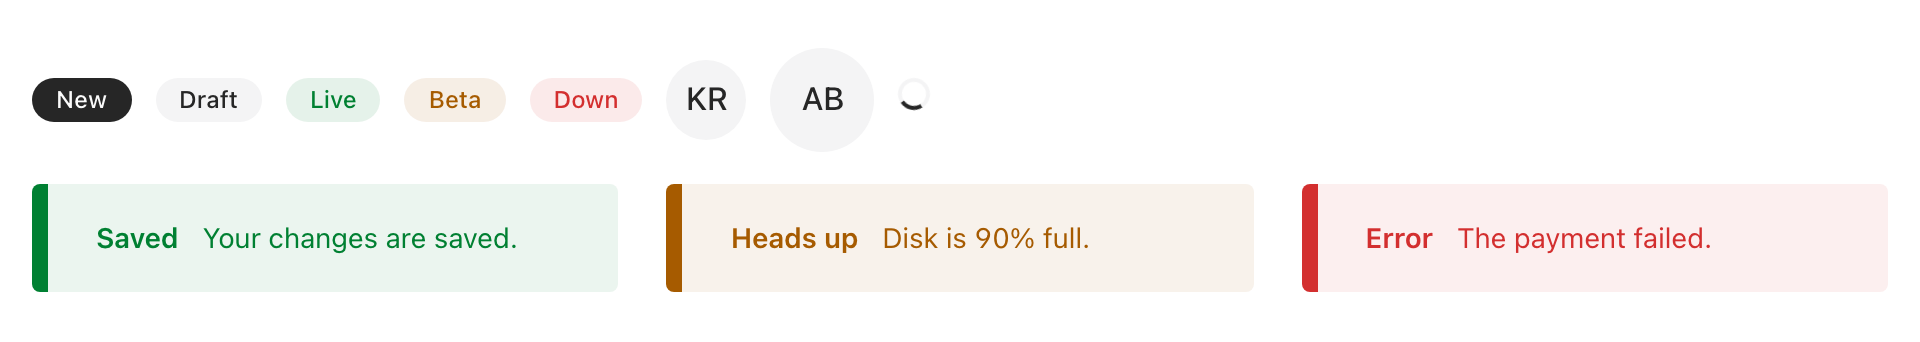
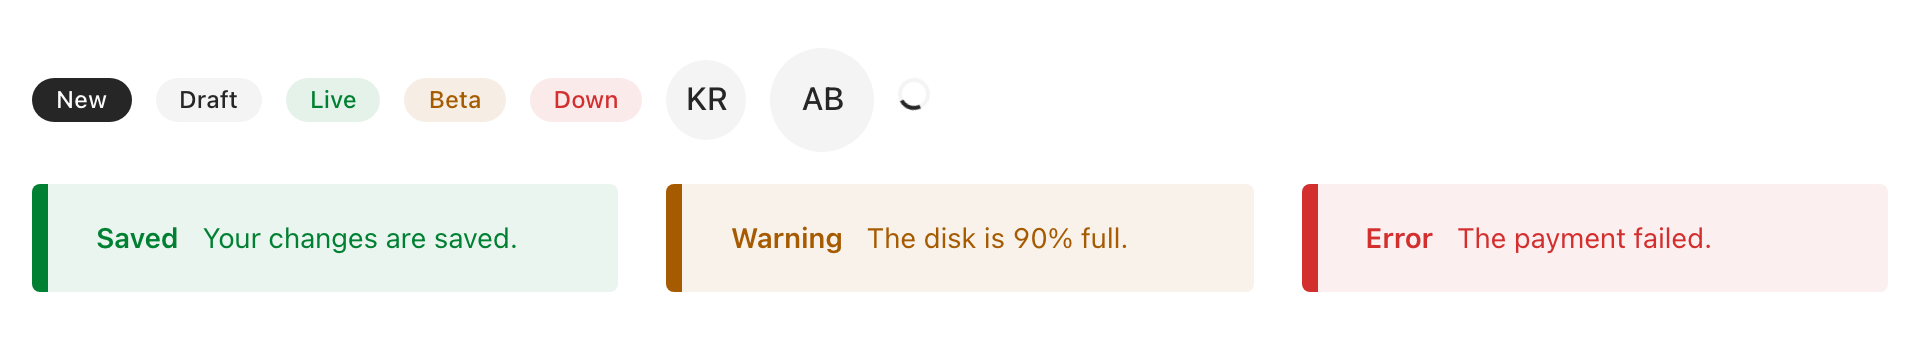
Rewrite the index, README and demo copy in plain English
Replace the marketing lines in the examples with copy from a plain app.
Split long sentences, remove label colons, and use "user" for the
person who uses the site. Retake the page, content and forms pictures
and the tabs picture.

Changed region(s): [[0.375, 0.6433, 0.5938, 0.731]]

diff --git a/fhoat/demo.py b/fhoat/demo.py
@@ -1,4 +1,4 @@
-"""A gallery of every component, plus pages shaped like lego's blog and vedicreader's reader. Run `python -m fhoat.demo` (port 5002).
+"""A page with every component, and pages like the lego blog and the Vedic Reader app. Run `python -m fhoat.demo` and open http://localhost:5002.
 
 Docs: https://vedicreader.github.io/fhoat/demo.html.md"""
 
@@ -8,16 +8,16 @@ Docs: https://vedicreader.github.io/fhoat/demo.html.md"""
 __all__ = ['app', 'rt', 'POSTS', 'WORKS', 'VERSE', 'DAY', 'page', 'sec', 'buttons', 'badges', 'forms', 'overlays', 'tabs',
            'table', 'people', 'index', 'post', 'post_card', 'signin', 'lego', 'work', 'verse', 'vr']
 
-# %% ../nbs/02_demo.ipynb #f76e934a
+# %% ../nbs/02_demo.ipynb #c2
 from . import *
 
-# %% ../nbs/02_demo.ipynb #795cab1b
+# %% ../nbs/02_demo.ipynb #c3
 app, rt = fast_app(oat=True, title='fhoat')
 
 def page(*c, title='fhoat'):
-    "One shell for every demo page."
-    nav = Navbar('◆ fhoat', ('Components', '/'), ('Lego', '/lego'), ('Vedic Reader', '/vr'), end=(ThemePicker(), ModeToggle()))
-    return Title(title), nav, Container(*c), PageFooter(Span('fhoat · Oat UI for FastHTML'), A('oat.ink', href='https://oat.ink'))
+    "Put `c` between the navbar and the footer that every demo page uses."
+    nav = Navbar('fhoat', ('Components', '/'), ('Lego', '/lego'), ('Vedic Reader', '/vr'), end=(ThemePicker(), ModeToggle()))
+    return Title(title), nav, Container(*c), PageFooter(Span('Made with fhoat and Oat'), A('oat.ink', href='https://oat.ink'))
 
 def sec(title, *c): return Section(H2(title, cls='mb-4'), *c, cls='mb-8')
 
@@ -30,8 +30,8 @@ def buttons():
 def badges():
     return sec('Badges and alerts', Div(Badge('New'), Badge('Draft', variant='secondary'), Badge('Live', variant='success'),
                                          Badge('Beta', variant='warning'), Badge('Down', variant='danger'), Badge('Outline', cls='outline'), cls='hstack mb-4'),
-               Div(Alert('Your changes are saved.', title='Saved', variant='success'), Alert('Disk is 90% full.', title='Heads up', variant='warning'),
-                   Alert('The payment failed.', title='Error', variant='danger'), Alert('Plain note with no variant.'), cls='vstack'))
+               Div(Alert('Your changes are saved.', title='Saved', variant='success'), Alert('The disk is 90% full.', title='Warning', variant='warning'),
+                   Alert('The payment failed.', title='Error', variant='danger'), Alert('An alert with no variant.'), cls='vstack'))
 
 def forms():
     f = Form(Field('Email', Input(type='email', name='email', placeholder='you@example.com'), hint='We never share it.'),
@@ -41,14 +41,14 @@ def forms():
              Group(Input(type='search', name='q', placeholder='Search'), Btn('Go')), hx_post='/toast', hx_swap='none')
     return sec('Forms', Grid(Card(f, header=H3('Sign up')),
                              Card(P('Range, progress and meter are plain HTML.'), Input(type='range'), Progress(value=60, max=100),
-                                  Meter(value=.7), Skeleton(2, box=True, cls='mt-4'), header=H3('Native'))))
+                                  Meter(value=.7), Skeleton(2, box=True, cls='mt-4'), header=H3('HTML inputs'))))
 
 def overlays():
-    dlg = DialogX(P('Dialogs are native <dialog>. A backdrop click or Esc closes them.'), header=H3('Delete project?'),
+    dlg = DialogX(P('This is an HTML dialog. Click outside it or press Esc to close it.'), header=H3('Delete project?'),
                   footer=(DialogClose('Cancel'), Btn('Delete', variant='danger', onclick="this.closest('dialog').close()")), id='dlg')
     dd = Dropdown('Options ▾', A('Profile', href='#'), A('Settings', href='#'), Btn('Sign out', look='ghost'))
     return sec('Overlays', Div(DialogOpen('Open dialog', id='dlg'), dd, Btn('Toast', hx_post='/toast', hx_swap='none', look='outline'),
-                               Btn('Tooltip', title='Oat turns a title into a tooltip', look='ghost'), dlg, cls='hstack'))
+                               Btn('Tooltip', title='Oat shows the title as a tooltip', look='ghost'), dlg, cls='hstack'))
 
 def tabs():
     return sec('Tabs', Tabs(('Account', P('Manage your account.')), ('Billing', P('Invoices and cards.')), ('Team', P('Invite people.'))))
@@ -64,23 +64,23 @@ def people():
 
 @rt('/')
 def index():
-    hero = Hero('Oat UI for FastHTML', sub='Semantic HTML that looks finished. One switch: fast_app(oat=True). Themes when you want them.',
-                eyebrow='a Pico replacement', actions=(ABtn('See Lego', href='/lego'), ABtn('See Vedic Reader', href='/vr', look='outline')))
+    hero = Hero('Oat styles for FastHTML', sub='Pass oat=True to fast_app. Your HTML tags then use Oat styles.',
+                eyebrow='fhoat demo', actions=(ABtn('See Lego', href='/lego'), ABtn('See Vedic Reader', href='/vr', look='outline')))
     more = sec('More', Div(ButtonGroup(Btn('Day', look='outline'), Btn('Week', look='outline'), Btn('Month', look='outline')),
                            Spinner(size='sm'), Btn('Hover me', look='ghost', **tip('A tooltip from title=', 'bottom')), cls='hstack mb-4'),
                Grid(Card(Upload(), header=H4('Upload')), Card(TagInput(value='oat, fasthtml'), header=H4('Tags'))))
     return page(hero, buttons(), badges(), forms(), overlays(), tabs(), table(), people(), more, OatBusy())
 
 @rt('/toast')
-def post(): return toast_hdr('Saved. Toasts ride on HX-Trigger.', 'Done', 'success')
+def post(): return toast_hdr('Your changes are saved.', 'Saved', 'success')
 
-# ── Lego-shaped: a blog front, a sign-in dialog, a dashboard ─────────────────
-POSTS = [('Connect order', 'Blocks connect in order; auth goes last.', 'Architecture'),
+# ── Pages like lego: a blog, a sign-in dialog and a dashboard ───────────────
+POSTS = [('Connect order', 'Blocks connect in order. The auth block connects last.', 'Architecture'),
          ('litesearch', 'Full-text and vector search in one SQLite file.', 'Search'),
-         ('The blog block', 'Markdown posts with frontmatter, seeded on start.', 'Blocks'),
-         ('dockeasy', 'One command from a folder to a container.', 'Deploy'),
-         ('gheasy', 'Secrets and variables pushed from .env.', 'Tools'),
-         ('vpseasy', 'A VPS, a tunnel and a deploy, scripted.', 'Deploy')]
+         ('The blog block', 'Markdown posts with frontmatter. The app loads them when it starts.', 'Blocks'),
+         ('dockeasy', 'One command makes a container from a folder.', 'Deploy'),
+         ('gheasy', 'Push secrets and variables from .env to GitHub.', 'Tools'),
+         ('vpseasy', 'One script sets up a VPS, a tunnel and a deploy.', 'Deploy')]
 
 def post_card(t, d, tag): return A(Badge(tag, variant='secondary', cls='mb-2'), H3(t), P(d), href='#', cls='card')
 
@@ -92,16 +92,16 @@ def signin():
 @rt('/lego')
 def lego():
     feat = Card(Span('Featured', cls='eyebrow'), H2('VedicReader, built from blocks'),
-                P('How one FastHTML app grew into eight packages, a block at a time.'), footer=(ABtn('Read', href='#', size='small'), Span('6 min', cls='text-light')))
+                P('How we split one FastHTML app into eight packages.'), footer=(ABtn('Read', href='#', size='small'), Span('6 min', cls='text-light')))
     side = Div(*[Card(H4(t), P(d, cls='text-light'), cls='mb-4') for t, d, _ in POSTS[:2]])
     kpis = Grid(*[Card(Small(k, cls='text-light'), H2(v), Badge(c, variant=bv)) for k, v, c, bv in
                   [('Visitors', '12,480', '+8%', 'success'), ('Sign-ups', '342', '+3%', 'success'), ('Errors', '17', '−2', 'secondary'), ('p95', '84 ms', '+6 ms', 'warning')]], col_min='12rem')
-    return page(Hero('Build webapps one block at a time', sub='A FastHTML + Oat starter. Clone it, connect your blocks, ship it.',
+    return page(Hero('Build web apps from blocks', sub='A starter app for FastHTML and Oat. Clone it, connect your blocks and deploy it.',
                      actions=(DialogOpen('Sign in', id='signin'), ABtn('GitHub', href='#', look='outline'))),
                 sec('Latest', Row(Column(feat, span=8), Column(side, span=4))), sec('All posts', Grid(*[post_card(*p) for p in POSTS], col_min='16rem')),
                 sec('Dashboard', kpis), signin(), title='Lego')
 
-# ── Vedic Reader-shaped: a shelf, a verse, a day ─────────────────────────────
+# ── Pages like Vedic Reader: a shelf, a verse and the day ───────────────────
 WORKS = [('Bhagavad Gītā', 'भगवद्गीता', '18 chapters · 700 verses'), ('Viṣṇu Sahasranāma', 'विष्णुसहस्रनाम', '108 verses'),
          ('Tirukkuṟaḷ', 'திருக்குறள்', '133 chapters · 1,330 kuṟaḷ'), ('Śrī Sūktam', 'श्रीसूक्तम्', '15 mantras'),
          ('Gaṇapati Atharvaśīrṣa', 'गणपत्यथर्वशीर्षम्', '10 sections'), ('Puruṣa Sūktam', 'पुरुषसूक्तम्', '16 mantras')]
@@ -127,5 +127,5 @@ def vr():
                 sec('Continue reading', Row(Column(verse(), span=8), Column(day, span=4))),
                 sec('Shelf', Grid(*[work(*w) for w in WORKS], col_min='15rem')), title='Vedic Reader')
 
-# %% ../nbs/02_demo.ipynb #3236e9f5
+# %% ../nbs/02_demo.ipynb #c5
 if __name__ == '__main__': serve(appname='fhoat.demo', port=5002)

diff --git a/README.md b/README.md
@@ -3,7 +3,7 @@
 
 <!-- WARNING: THIS FILE WAS AUTOGENERATED! DO NOT EDIT! -->
 
-fhoat styles a FastHTML app with [Oat](https://oat.ink) instead of Pico. Install it and pass `oat=True` to [`fast_app`](https://vedicreader.github.io/fhoat/core.html#fast_app).
+fhoat adds the [Oat](https://oat.ink) CSS library to a FastHTML app. It replaces Pico, which FastHTML uses by default. Install fhoat, then pass `oat=True` to [`fast_app`](https://vedicreader.github.io/fhoat/core.html#fast_app).
 
 ``` sh
 pip install fhoat
@@ -15,7 +15,7 @@ from fhoat import *
 app, rt = fast_app(oat=True)
 
 @rt
-def index(): return Container(Card(P('Plain tags are styled.'), header=H3('Hello'), footer=Btn('Go')))
+def index(): return Container(Card(P('This card uses Oat styles.'), header=H3('Hello'), footer=Btn('Save')))
 
 serve()
 ```
@@ -28,9 +28,9 @@ serve()
 
 ``` python
 nav = Navbar('My app', ('Docs', '#'), ('Blog', '#'), end=(ThemePicker(), ModeToggle()))
-hero = Hero('Semantic HTML that looks finished', eyebrow='fhoat',
-            sub='One switch puts Oat in a FastHTML app.',
-            actions=(ABtn('Start', href='#'), ABtn('GitHub', href='#', look='outline')))
+hero = Hero('Plan your week', eyebrow='My app',
+            sub='Add your tasks and share them with your team.',
+            actions=(ABtn('Sign up', href='#'), ABtn('Learn more', href='#', look='outline')))
 ```
 
 ![A navbar and a hero](https://raw.githubusercontent.com/vedicreader/fhoat/main/nbs/images/page.png)
@@ -55,7 +55,7 @@ badges = Div(Badge('New'), Badge('Draft', variant='secondary'), Badge('Live', va
              Avatar(initials='KR'), Avatar(initials='AB', size='large'), Spinner(size='sm'),
              cls='hstack mb-4')
 alerts = Grid(Alert('Your changes are saved.', title='Saved', variant='success'),
-              Alert('Disk is 90% full.', title='Heads up', variant='warning'),
+              Alert('The disk is 90% full.', title='Warning', variant='warning'),
               Alert('The payment failed.', title='Error', variant='danger'))
 ```
 
@@ -70,10 +70,10 @@ signup = Card(Form(Field('Email', Input(type='email', name='email', placeholder=
                    Div(Switch('Email me updates', name='news', checked=True),
                        Label(Input(type='checkbox', name='tos'), 'I agree'), cls='hstack')),
               header=H3('Sign up'), footer=Btn('Join'))
-checks = Card(Field('Email', Input(name='bad', value='name@'), error='That is not an email.', invalid=True),
+checks = Card(Field('Email', Input(name='bad', value='name@'), error='Enter a valid email address.', invalid=True),
               Group(Input(type='search', name='q', placeholder='Search'), Btn('Go')),
               Input(type='range'), Progress(value=60, max=100),
-              header=H3('Errors and native inputs'))
+              header=H3('Errors and HTML inputs'))
 ```
 
 ![Forms](https://raw.githubusercontent.com/vedicreader/fhoat/main/nbs/images/forms.png)
@@ -86,7 +86,7 @@ rows = [('Rigveda', '10,552', 'success', 'Live'), ('Tirukkuṟaḷ', '1,330', 'w
 works = Div(Table(Thead(Tr(Th('Work'), Th('Verses'), Th('State'))),
                   Tbody(*[Tr(Td(Strong(w)), Td(n), Td(Badge(b, variant=v))) for w, n, v, b in rows])),
             cls='table')
-tabs = Tabs(('Works', works), ('Billing', P('Invoices and cards.')), ('Team', P('Invite people.')))
+tabs = Tabs(('Works', works), ('Billing', P('Your invoices and payment cards.')), ('Team', P('Add people to your team.')))
 ```
 
 ![Tabs holding a table](https://raw.githubusercontent.com/vedicreader/fhoat/main/nbs/images/tabs.png)
@@ -110,7 +110,7 @@ dark = Div(swatches, style='color-scheme:dark; background:var(--background); col
 
 ### With htmx
 
-A sign-up form. The server returns the form with an error, or a toast:
+This sign-up form sends the email to `/join`. If the email is not valid, the server sends back the form with an error. Otherwise, the server sends a toast.
 
 ``` python
 def signup_form(email='', error=None):
@@ -119,11 +119,11 @@ def signup_form(email='', error=None):
 
 @rt
 def join(email: str):
-    if '@' not in email: return signup_form(email, 'That is not an email.')
-    return P('Thanks.'), toast_hdr('You are in.', 'Welcome', 'success')
+    if '@' not in email: return signup_form(email, 'Enter a valid email address.')
+    return P('Thank you.'), toast_hdr('You signed up.', 'Welcome', 'success')
 ```
 
-A dialog that a button opens:
+The button opens the dialog that has the same `id`.
 
 ``` python
 DialogOpen('Delete', id='del'), DialogX(P('This cannot be undone.'), header=H3('Delete project?'),
@@ -131,14 +131,14 @@ DialogOpen('Delete', id='del'), DialogX(P('This cannot be undone.'), header=H3('
                                         id='del')
 ```
 
-A menu, and a spinner on each element while its htmx request runs:
+[`Dropdown`](https://vedicreader.github.io/fhoat/components.html#dropdown) makes a menu. [`OatBusy`](https://vedicreader.github.io/fhoat/components.html#oatbusy) shows a spinner on an element while its htmx request runs.
 
 ``` python
 Dropdown('Options', A('Profile', href='/me'), Hr(), Btn('Sign out', hx_post='/out'))
 OatBusy()
 ```
 
-An app shell with a sidebar:
+[`Sidebar`](https://vedicreader.github.io/fhoat/components.html#sidebar) makes a page with a side menu. [`SidebarToggle`](https://vedicreader.github.io/fhoat/components.html#sidebartoggle) opens and closes the menu on small screens.
 
 ``` python
 Sidebar(Ul(Li(A('Home', href='/', aria_current='page')), Li(A('Users', href='/u'))),
@@ -149,11 +149,11 @@ Sidebar(Ul(Li(A('Home', href='/', aria_current='page')), Li(A('Users', href='/u'
 
 Oat styles `Button`, `A`, `Input`, `Select`, `Textarea`, `Label`, `Fieldset`, `Table`, `Dialog`, `Details`, `Progress`, `Meter` and the headings with no classes. `A(..., cls='button')` draws a link as a button.
 
-A `Div` has no style. Give it `cls='card'`, `'row'`, `'hstack'`, `'vstack'` or `'container'`, or use a component function. The `restyle` layer also sets the type, links, code, tables and focus rings.
+A `Div` has no style. Give it `cls='card'`, `'row'`, `'hstack'`, `'vstack'` or `'container'`, or use a component function. The `restyle` layer also styles text, links, code, tables and focus rings.
 
 ## Themes
 
-`oat` takes `True`, a preset name, a dict or a [`Theme`](https://vedicreader.github.io/fhoat/core.html#theme). `oat=False` gives FastHTML with Pico. The preset name goes on `<html>` as `data-theme`:
+The `oat` argument takes `True`, a preset name, a dict or a [`Theme`](https://vedicreader.github.io/fhoat/core.html#theme). With `oat=False`, FastHTML uses Pico. fhoat puts the preset name on the `<html>` element as the `data-theme` attribute.
 
 ``` python
 app, rt = fast_app(oat='blue')
@@ -168,33 +168,33 @@ fast_app(oat=Theme(name='paper', primary=('#8a1f11', '#dcae6d'), radius='md', sh
                    size='lg', font='serif', tokens=dict(container_max='64rem')))
 ```
 
-`radius`, `shadow` and `size` set the defaults. The reader changes them with [`ThemePicker`](https://vedicreader.github.io/fhoat/components.html#themepicker) and [`FontToggle`](https://vedicreader.github.io/fhoat/components.html#fonttoggle). [`ModeToggle`](https://vedicreader.github.io/fhoat/components.html#modetoggle) cycles auto, light and dark. The browser keeps the reader’s choices in `localStorage` and applies them before the first paint.
+`radius`, `shadow` and `size` set the default values. The user can change them with [`ThemePicker`](https://vedicreader.github.io/fhoat/components.html#themepicker) and [`FontToggle`](https://vedicreader.github.io/fhoat/components.html#fonttoggle). [`ModeToggle`](https://vedicreader.github.io/fhoat/components.html#modetoggle) changes the mode from auto to light to dark. The browser keeps the user’s choices in `localStorage`. It applies them before it shows the page.
 
-Your JavaScript can make the same changes: `fhoat.set('radius', 'lg')`, `fhoat.mode('dark')`, `fhoat.theme('teal')`, `fhoat.cycle('size', ['', 'lg', 'xl'])`. Each change fires a `fhoat` event on `<html>`. The `<html>` element carries `data-mode`, `data-theme`, `data-radius`, `data-shadow`, `data-size` and the class `dark` or `light`.
+Your JavaScript can make the same changes. For example, `fhoat.set('radius', 'lg')` sets a large radius, and `fhoat.mode('dark')` sets dark mode. `fhoat.theme('teal')` sets a preset. `fhoat.cycle('size', ['', 'lg', 'xl'])` sets the next value in the list. After each change, fhoat sends a `fhoat` event on `<html>`. The `<html>` element has the attributes `data-mode`, `data-theme`, `data-radius`, `data-shadow` and `data-size`. It also has the class `dark` or `light`.
 
-Your CSS overrides fhoat without `!important`. fhoat’s rules are in Oat’s cascade layers. The theme tokens are in one unlayered `:root` rule.
+fhoat puts its rules in Oat’s cascade layers. It puts the theme tokens in one `:root` rule outside the layers. Your CSS overrides fhoat without `!important`.
 
 ## Layers
 
-`oat_kw` goes to [`oat_hdrs`](https://vedicreader.github.io/fhoat/core.html#oat_hdrs) and selects the layers:
+[`fast_app`](https://vedicreader.github.io/fhoat/core.html#fast_app) sends `oat_kw` to [`oat_hdrs`](https://vedicreader.github.io/fhoat/core.html#oat_hdrs). The flags in `oat_kw` select the layers.
 
-| flag | default | adds |
+| flag | default | what it adds |
 |----|----|----|
-| `presets` | on | modes, presets and the reader’s settings (`themes.css`) |
+| `presets` | on | modes, presets and the user’s settings (`themes.css`) |
 | `components` | on | card parts, grid, navbar, hero, footer and controls (`components.css`) |
-| `restyle` | on | type, links, code, tables and focus rings (`fhoat.css`) |
+| `restyle` | on | text, links, code, tables and focus rings (`fhoat.css`) |
 | `script` | on | modes, settings, controls and toasts (`fhoat.js`, inline) |
 | `compat` | off | Oat 1.0 tokens, metrics and titles, for an app made on Oat 1.0 |
 | `cdn` | off | Oat from jsDelivr, with SRI |
 | `prefix` | `/fhoat` | the path of the files |
 
-The app serves the files at `prefix`. Each file URL carries a content hash, and the browser caches the file for a year. Nothing loads from a CDN unless you pass `oat_kw=dict(cdn=True)`.
+The app serves the files at `prefix`. Each file URL has a hash of the file contents. The browser keeps each file in its cache for one year. fhoat loads nothing from a CDN unless you pass `oat_kw=dict(cdn=True)`.
 
-[`fast_app`](https://vedicreader.github.io/fhoat/core.html#fast_app) also takes `mode`, `tips` and `store`. `tips=False` turns off Oat’s tooltips. `store` names the `localStorage` key.
+[`fast_app`](https://vedicreader.github.io/fhoat/core.html#fast_app) also takes `mode`, `tips` and `store`. `mode` sets the first mode: `'auto'`, `'light'` or `'dark'`. `tips=False` turns off Oat’s tooltips. `store` sets the name of the `localStorage` key.
 
 ## An existing app
 
-[`setup_oat`](https://vedicreader.github.io/fhoat/core.html#setup_oat) adds Oat to an app you already have, including an app made with `FastHTML(...)`. [`setup_oat_toasts`](https://vedicreader.github.io/fhoat/components.html#setup_oat_toasts) makes FastHTML’s `add_toast(sess, msg, typ)` show Oat toasts.
+[`setup_oat`](https://vedicreader.github.io/fhoat/core.html#setup_oat) adds Oat to an app that you already have. This includes an app that you made with `FastHTML(...)`. After you call [`setup_oat_toasts`](https://vedicreader.github.io/fhoat/components.html#setup_oat_toasts), FastHTML’s `add_toast(sess, msg, typ)` shows Oat toasts.
 
 ``` python
 app = FastHTML()
@@ -202,7 +202,7 @@ setup_oat(app, 'teal', restyle=False)
 setup_oat_toasts(app)
 ```
 
-To serve the files yourself, mount `OAT_DIR` and pass its path as `prefix`. To make the head yourself, call [`oat_hdrs`](https://vedicreader.github.io/fhoat/core.html#oat_hdrs) and [`oat_htmlkw`](https://vedicreader.github.io/fhoat/core.html#oat_htmlkw).
+To serve the files from a different path, mount `OAT_DIR` at that path and pass the path as `prefix`. To make the page head yourself, call [`oat_hdrs`](https://vedicreader.github.io/fhoat/core.html#oat_hdrs) and [`oat_htmlkw`](https://vedicreader.github.io/fhoat/core.html#oat_htmlkw).
 
 ``` python
 app.router.routes.insert(0, Mount('/css/fhoat', StaticImmutable(directory=OAT_DIR)))
@@ -211,19 +211,19 @@ hdrs = oat_hdrs(restyle=False, presets=False, script=False, compat=True, prefix=
 
 ## Components
 
-|                 |                                                    |
-|-----------------|----------------------------------------------------|
-| Pico’s names    | `Card Group Search Grid DialogX Container OatBusy` |
-| Layout          | `Row Column Sidebar SidebarToggle`                 |
-| Buttons         | `Btn ABtn ButtonGroup DialogOpen DialogClose tip`  |
-| Content         | `Badge Alert Avatar AvatarGroup Skeleton Spinner`  |
-| Forms           | `Field Switch Upload TagInput`                     |
-| Interactive     | `Tabs Dropdown`                                    |
-| Page            | `Navbar Hero PageFooter`                           |
-| Reader controls | `ModeToggle ThemePicker FontToggle`                |
-| Toasts          | `OatToast toast_hdr setup_oat_toasts`              |
+|                    |                                                    |
+|--------------------|----------------------------------------------------|
+| Same names as Pico | `Card Group Search Grid DialogX Container OatBusy` |
+| Layout             | `Row Column Sidebar SidebarToggle`                 |
+| Buttons            | `Btn ABtn ButtonGroup DialogOpen DialogClose tip`  |
+| Content            | `Badge Alert Avatar AvatarGroup Skeleton Spinner`  |
+| Forms              | `Field Switch Upload TagInput`                     |
+| Interactive        | `Tabs Dropdown`                                    |
+| Page               | `Navbar Hero PageFooter`                           |
+| User controls      | `ModeToggle ThemePicker FontToggle`                |
+| Toasts             | `OatToast toast_hdr setup_oat_toasts`              |
 
-[`Search`](https://vedicreader.github.io/fhoat/components.html#search) replaces FastHTML’s `<search>` tag, as `fasthtml.pico` does. FastHTML’s `Col` and `Toast` are unchanged. fhoat’s versions are [`Column`](https://vedicreader.github.io/fhoat/components.html#column) and [`OatToast`](https://vedicreader.github.io/fhoat/components.html#oattoast).
+[`Search`](https://vedicreader.github.io/fhoat/components.html#search) replaces FastHTML’s `<search>` tag, as it does in `fasthtml.pico`. fhoat does not change FastHTML’s `Col` and `Toast`. The fhoat versions are [`Column`](https://vedicreader.github.io/fhoat/components.html#column) and [`OatToast`](https://vedicreader.github.io/fhoat/components.html#oattoast).
 
 `python -m fhoat.demo` serves every component at http://localhost:5002.
 
@@ -238,11 +238,11 @@ nbdev-test        # run the notebooks
 nbdev-prepare     # export, test, clean and readme
 ```
 
-Open `nbs/index.ipynb` in Jupyter to see each example live. `tools/shots.py` runs the same cells and saves the pictures in `nbs/images/`. After you change a component, run it, then run `nbdev-readme`:
+Open `nbs/index.ipynb` in Jupyter to see each example in a live frame. `tools/shots.py` runs the same cells and saves the pictures in `nbs/images/`. After you change a component, run `tools/shots.py`, then run `nbdev-readme`.
 
 ``` sh
 uv run --no-project --with-editable . --with execnb --with playwright python tools/shots.py
 nbdev-readme
 ```
 
-Oat 1.1.0 is © Kailash Nadh, MIT (`fhoat/static/LICENSE-oat`). The icons are from Lucide (ISC).
+Oat 1.1.0 is copyright Kailash Nadh. It uses the MIT license (`fhoat/static/LICENSE-oat`). The icons come from Lucide and use the ISC license.
